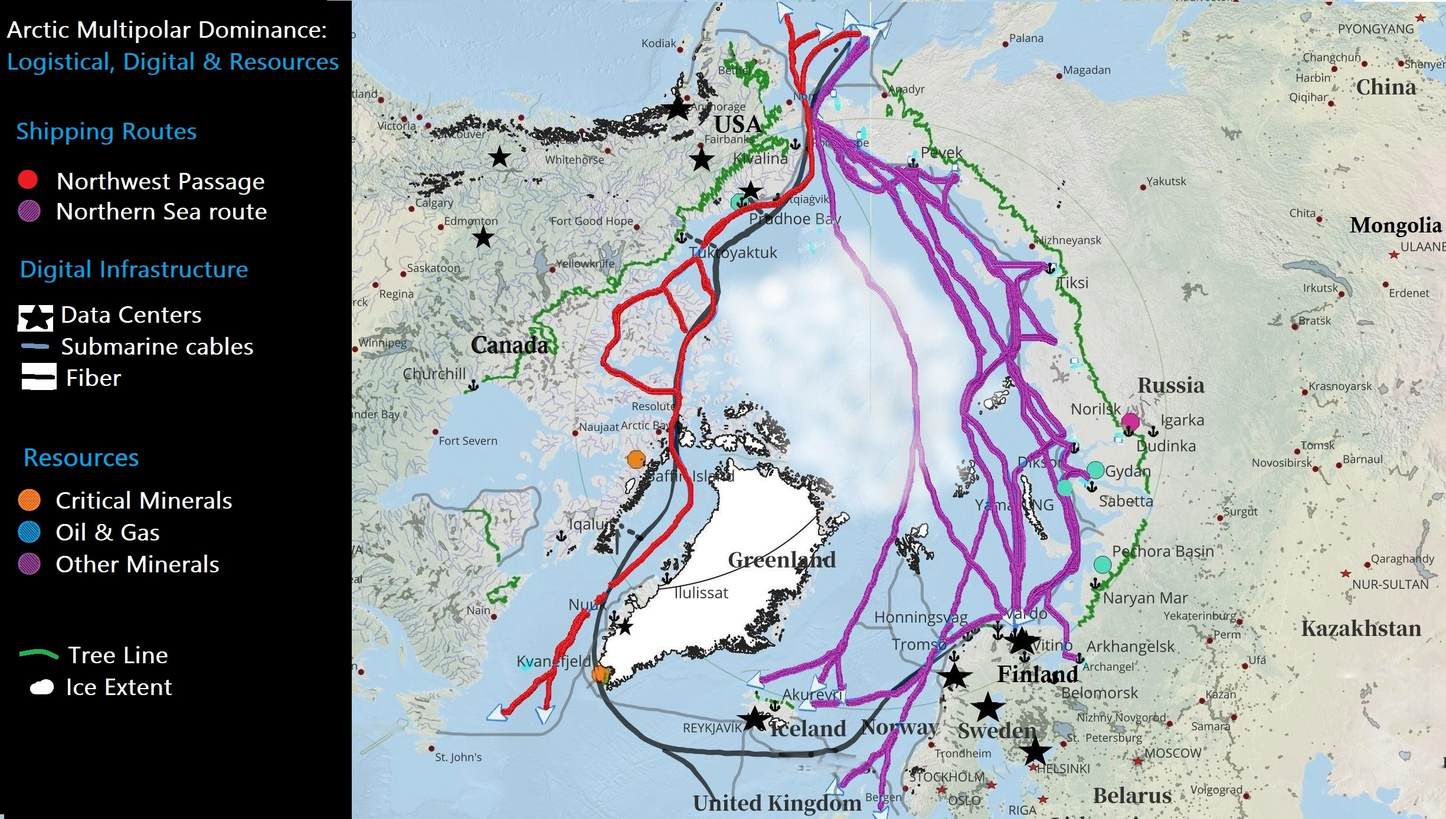
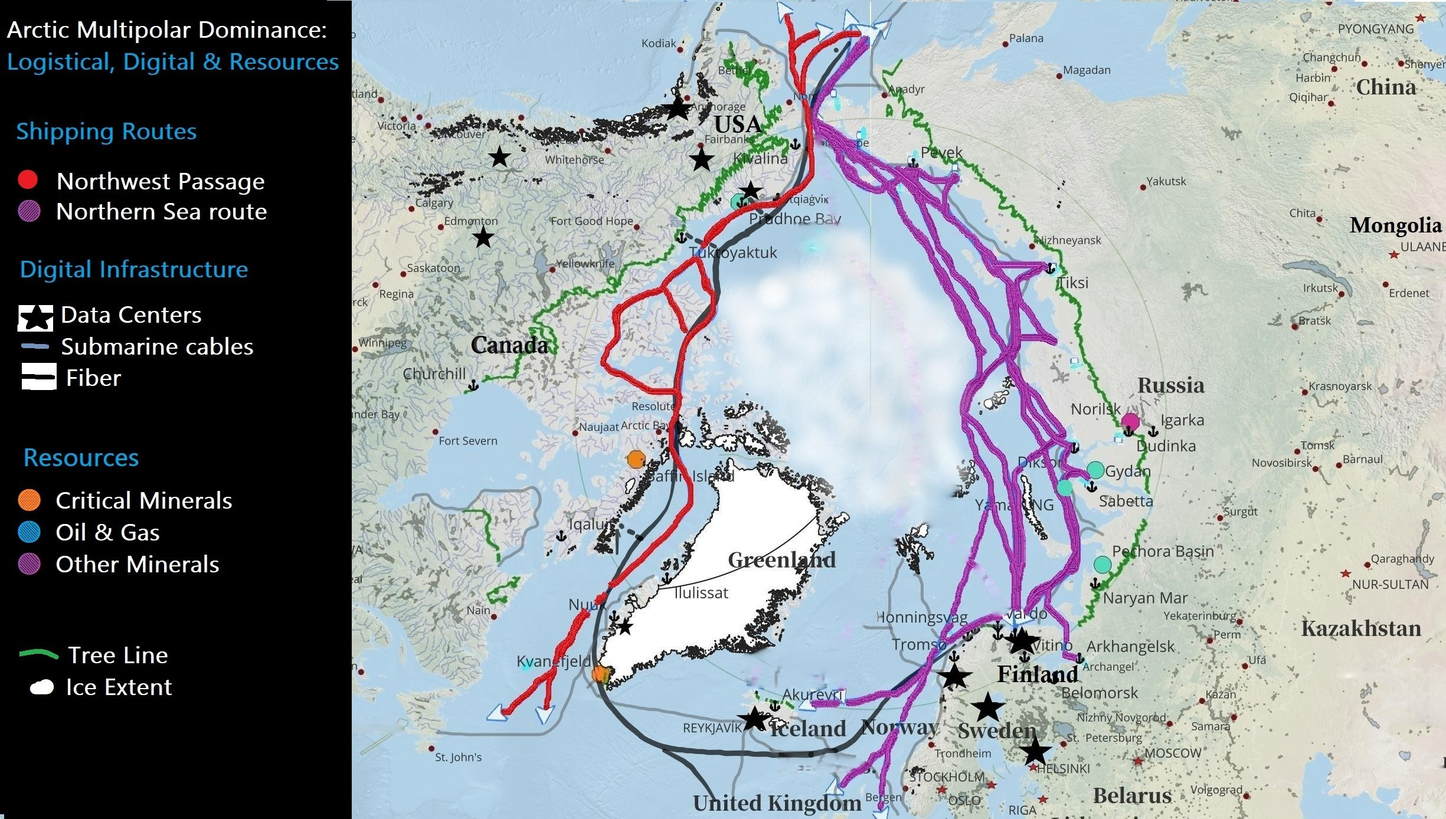
Multipolar illustration fixes + before F5 fixes

diff --git a/src/lib/frAssets.ts b/src/lib/frAssets.ts
@@ -14,12 +14,7 @@
  */
 export const FR_ASSETS: Record<string, string> = {
   '/images/ArcticMultipolarLegend.jpg': '/images/ArcticMultipolarLegendFR.jpg',
-  '/visualizations/canada-sphere-of-influence.html': '/visualizations/canada-sphere-of-influence-fr.html',
-  // Maritime maps (raster, FR versions supplied by Peggy). The FR files have a
-  // literal space before "FR" in their names — encode it as %20 so the browser
-  // requests the right path; the static server decodes %20 back to the space.
-  '/images/maritime_chokepoints_canadian_geopolitical_simplified.png': '/images/maritime_chokepoints_canadian_geopolitical_simplified%20FR.png',
-  '/images/canadian_maritime_trade_corrected.png': '/images/canadian_maritime_trade_corrected%20FR.png',
+  '/images/CanadaPositionEn.png': '/images/CanadaPositionFR.png',
 };
 
 /**

diff --git a/src/components/ProjectDetailLayout.tsx b/src/components/ProjectDetailLayout.tsx
@@ -351,9 +351,11 @@ export default function ProjectDetailLayout({
               </>
             )}
 
-            <h2 className="font-display text-3xl md:text-4xl font-light text-[#1A1A1A] mb-8 leading-tight">
-              {section.title}
-            </h2>
+            {section.title && (
+              <h2 className="font-display text-3xl md:text-4xl font-light text-[#1A1A1A] mb-8 leading-tight">
+                {section.title}
+              </h2>
+            )}
 
             {section.embedUrl && (
               <div style={{ width: '100%', display: 'block', marginBottom: '2rem' }}>
